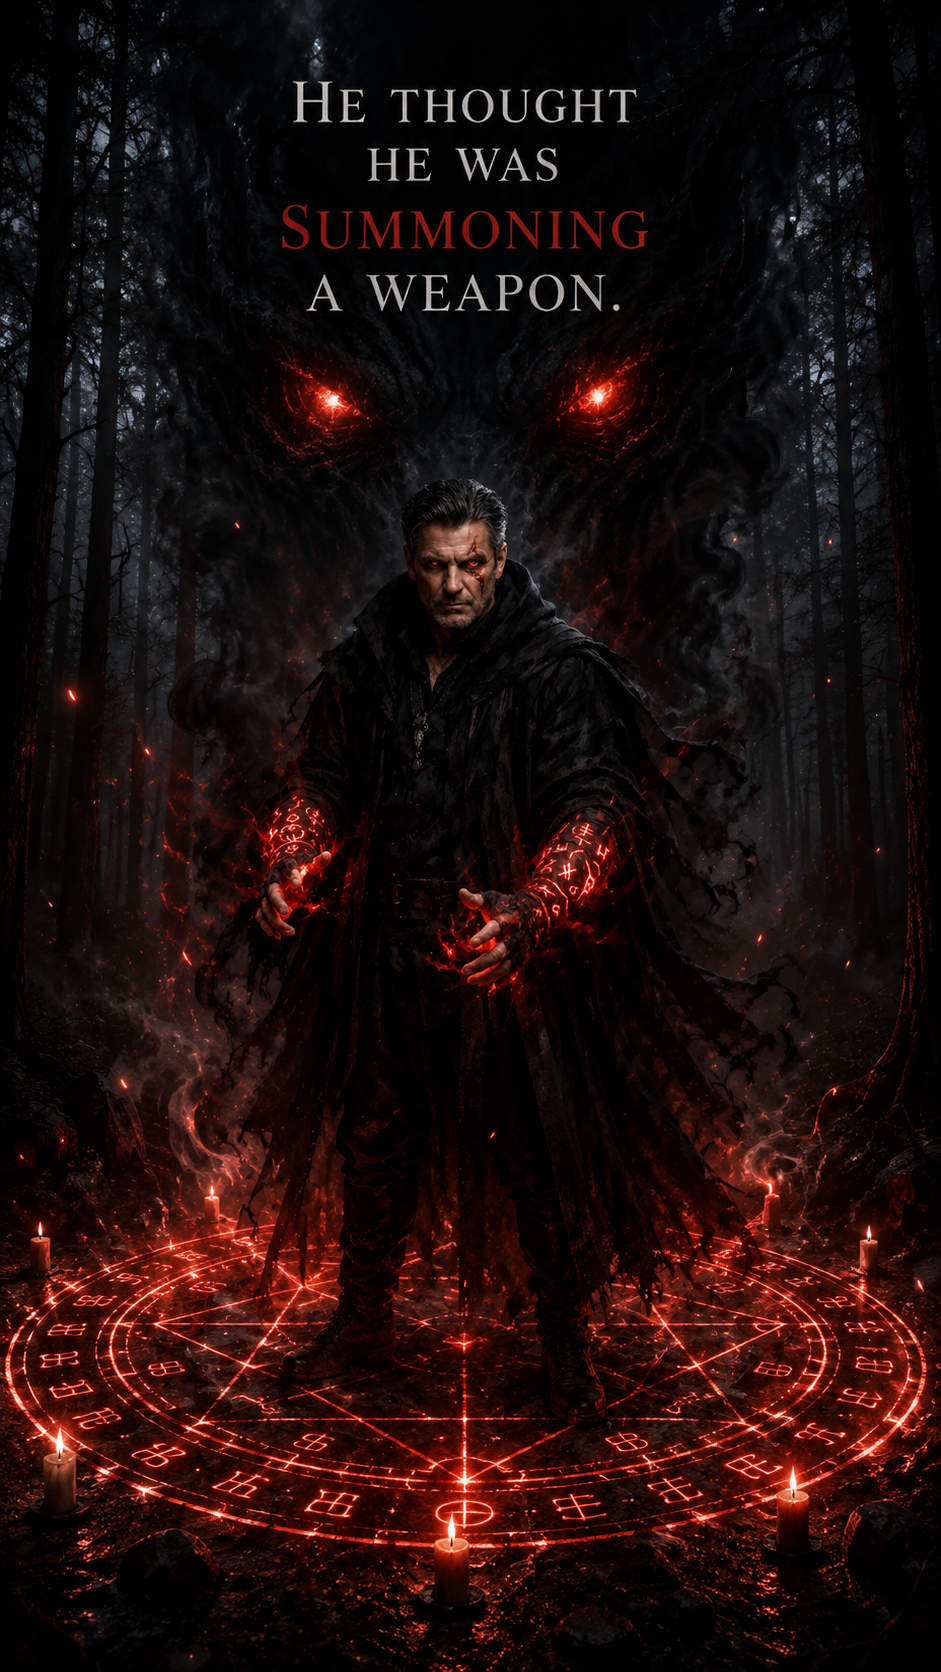
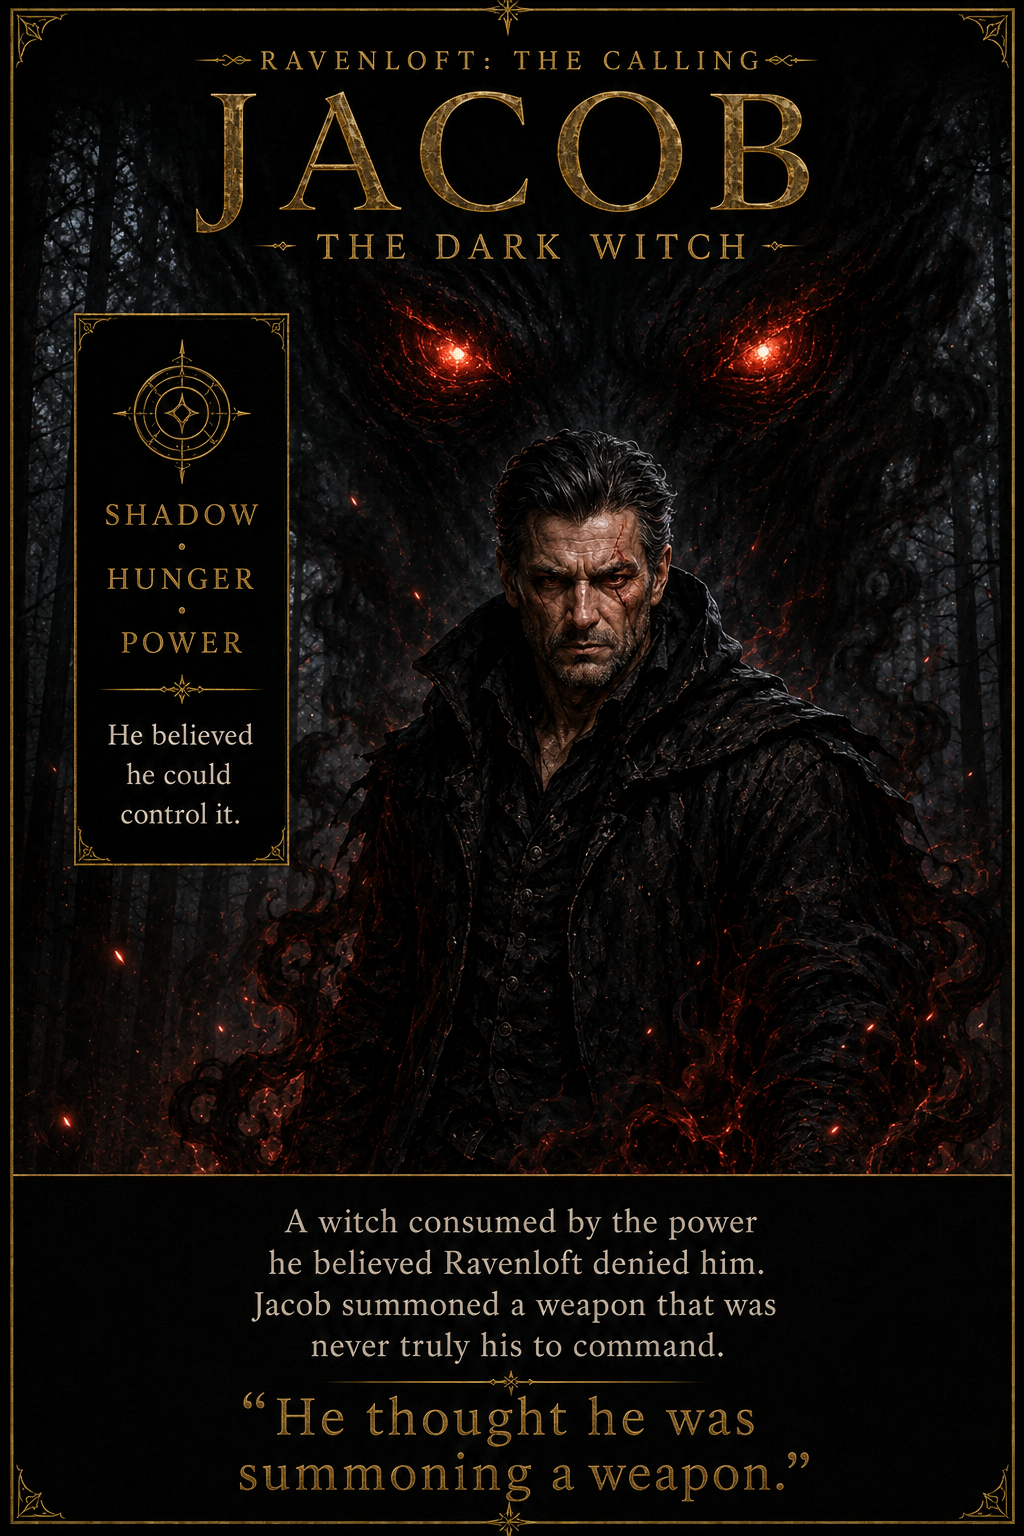
Update Ravenloft villain cards

diff --git a/world.html b/world.html
@@ -582,7 +582,7 @@
         <p>Ravenloft's legacy is shaped not only by those who defend it, but by the shadows determined to claim its power.</p>
       </div>
       <div class="shadows-grid">
-        <article class="shadow-card"><div class="shadow-image"><img src="assets/images/jacob-villain.png" alt="Jacob standing within a dark summoning circle"></div><p class="shadow-symbol" aria-hidden="true">✦ ◇ ✦</p><h3>Jacob</h3><p>A name tied to the darkness gathering beyond Ravenloft's doors. His motives and connection to the manor are best uncovered within the story.</p><span class="shadow-book">Appears in Book One</span></article>
+        <article class="shadow-card"><div class="shadow-image"><img src="assets/images/jacob-villain.png" alt="Jacob, the Dark Witch"></div><p class="shadow-symbol" aria-hidden="true">✦ ◇ ✦</p><h3>Jacob</h3><p>A name tied to the darkness gathering beyond Ravenloft's doors. His motives and connection to the manor are best uncovered within the story.</p><span class="shadow-book">Appears in Book One</span></article>
         <div class="journal-artifact-wrapper">
           <button class="journal-artifact" aria-label="Open Jacob's Journal">
             <span class="journal-book-spine"></span>
@@ -592,7 +592,7 @@
           </button>
           <p class="journal-caption">Recovered Journal</p>
         </div>
-        <article class="shadow-card"><div class="shadow-image"><img src="assets/images/devourer-villain.png" alt="The Devourer partially emerging in a forest ritual circle"></div><p class="shadow-symbol" aria-hidden="true">✦ ◇ ✦</p><h3>The Devourer</h3><p>Partially formed and dripping void, the Devourer is an ancient hunger forcing itself through a wound in the veil.</p><span class="shadow-book">Appears in Book One</span></article>
+        <article class="shadow-card"><div class="shadow-image"><img src="assets/images/the-devourer.png" alt="The Devourer, an Ancient Hunger"></div><p class="shadow-symbol" aria-hidden="true">✦ ◇ ✦</p><h3>The Devourer</h3><p>Partially formed and dripping void, the Devourer is an ancient hunger forcing itself through a wound in the veil.</p><span class="shadow-book">Appears in Book One</span></article>
         <article class="shadow-card"><div class="shadow-image"><img src="assets/images/the-architect.png" alt="The Architect, Builder of the Lock"></div><p class="shadow-symbol" aria-hidden="true">✦ ◇ ✦</p><h3>The Architect</h3><p>The ancient designer of the lock that imprisoned him. He knows every flaw and waits patiently for the one mistake that will set him free.</p><span class="shadow-book">Appears in Book One</span></article>
       </div>
       <p class="shadows-future">More shadows will emerge as the Ravenloft series continues.</p>
